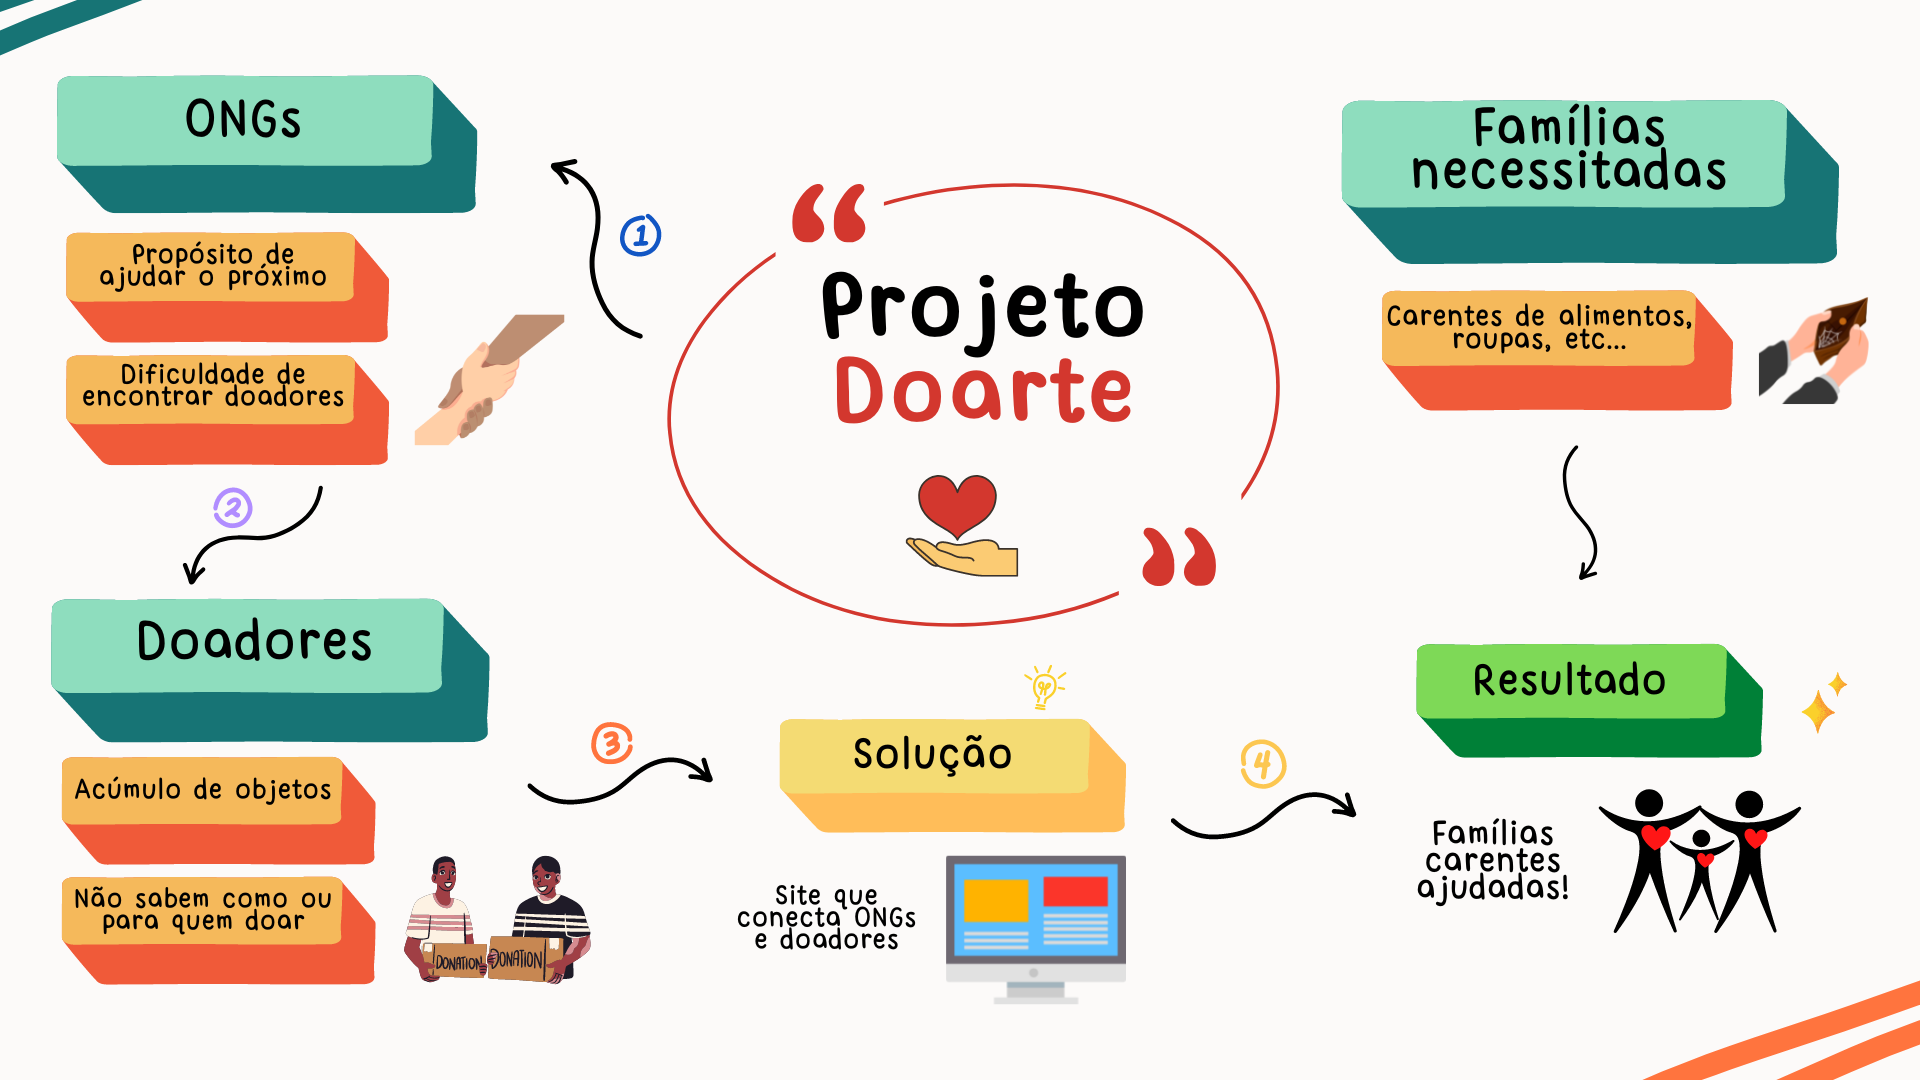
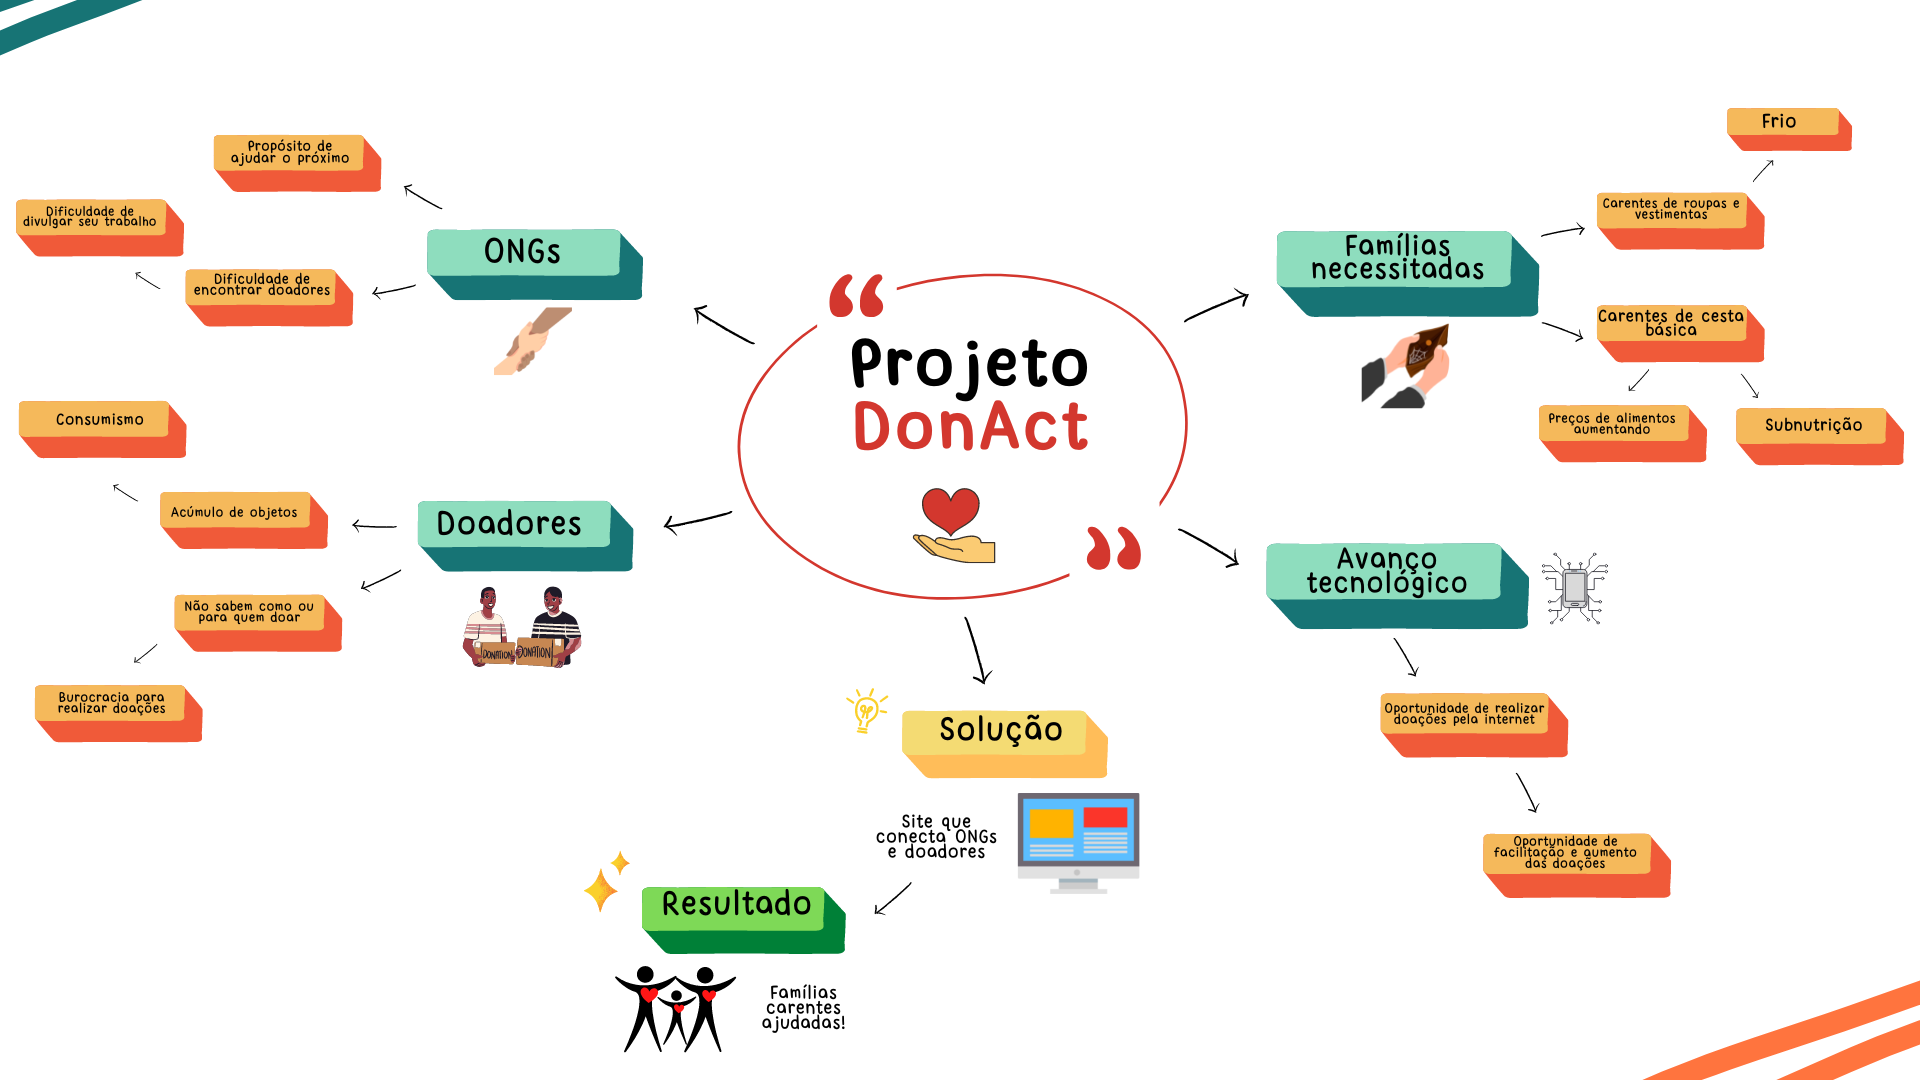
add mapa mental e fluxograma

diff --git a/docs/Base/1.1.AbordagemNaoEspecifica.md b/docs/Base/1.1.AbordagemNaoEspecifica.md
@@ -70,8 +70,13 @@ O mapa mental é uma técnica de brainstorm, que tem como objetivo colocar as id
 
 Selecionamos a ideia mais votada e decidimos utilizar o mapa mental para mostrar a ideia do projeto de um jeito mais dinâmico. Utilizamos as caixas maiores para colocar as ideias principais e as setas e textos para interligar e explicar a ligação entre essas ideias.
 
-![MapaMental](../imgs/Mapa-Mental.png)
+![MapaMental](../imgs/Mapa-mental.png)
 
+### Fluxograma 
+
+Fluxograma é uma técnica voltada para o aspecto visual, assim como o mapa mental. No fluxograma busca-se representar uma pequena narrativa da ideia do projeto DonAct e qual seus objetivos. 
+
+![Fluxograma](../imgs/Fluxograma.png)
 
 ### Ishikawa - Visão Geral
 ![Ishikawa - Visão Geral](../imgs/Ishikawa.jpg)
